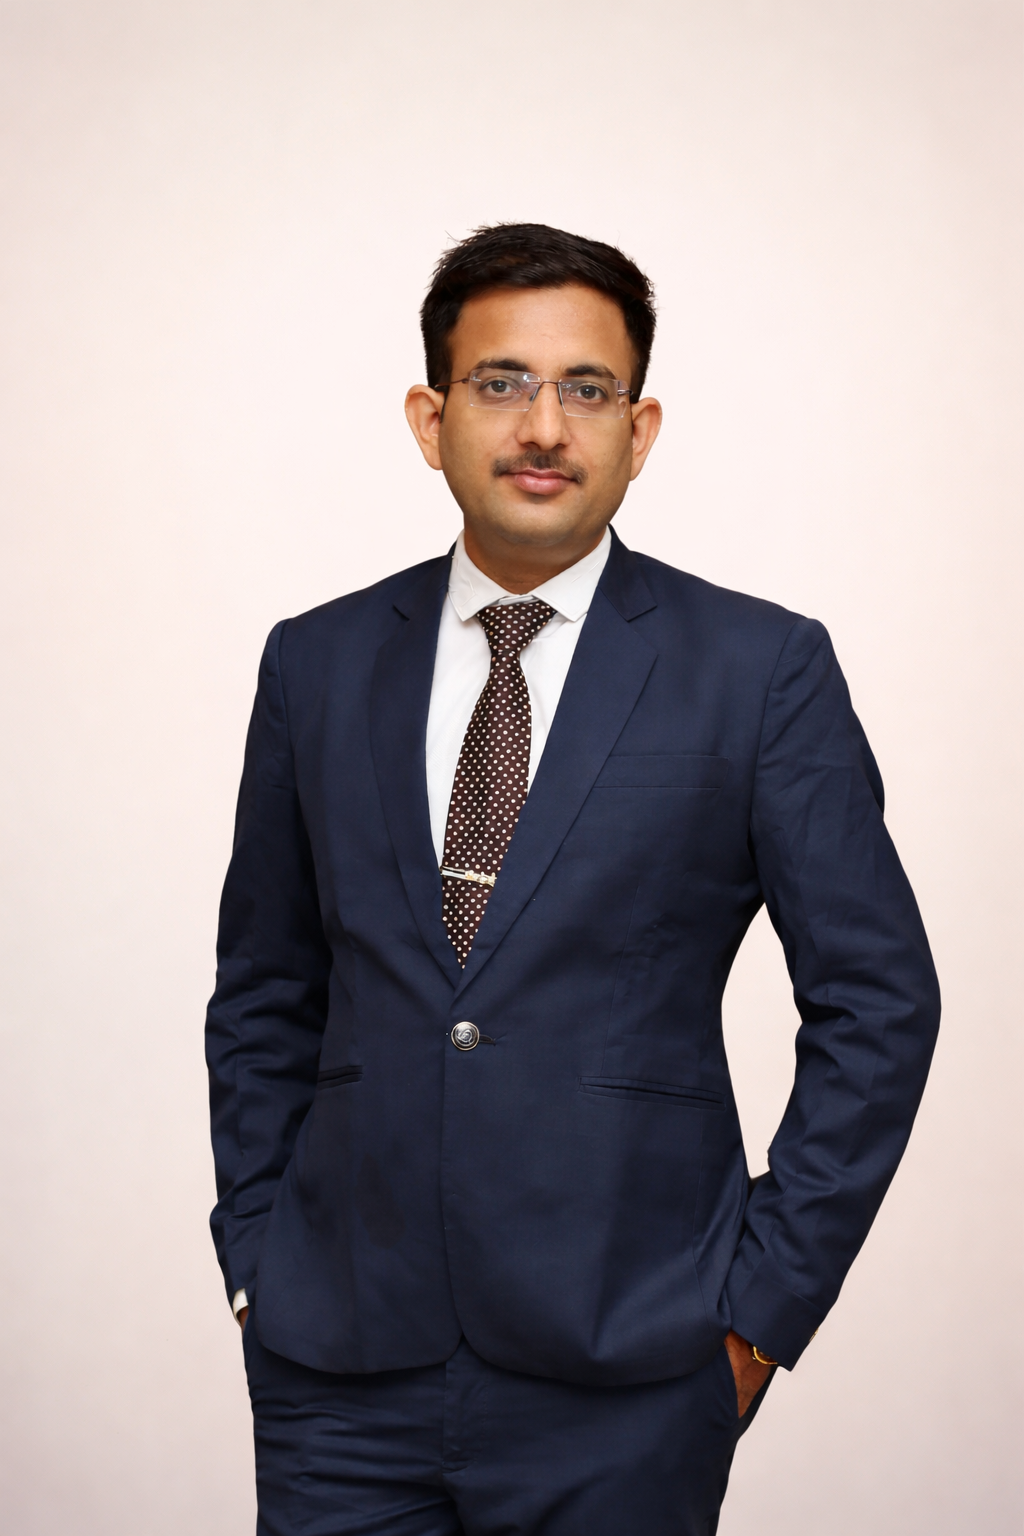
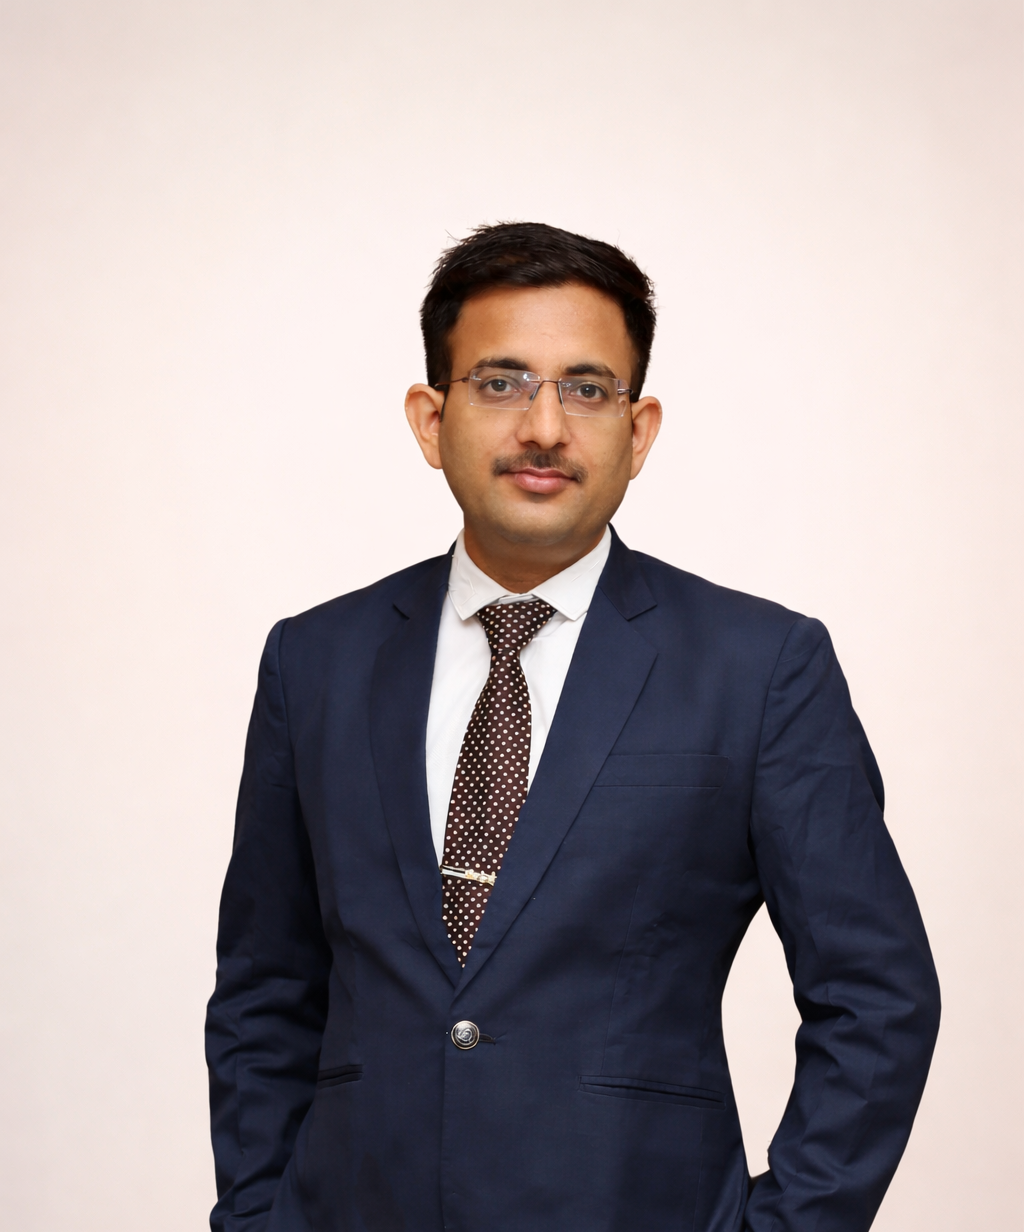
main-opf image added

Changed region(s): [[0.0, 0.1234, 1.0, 1.0]]

diff --git a/src/app/impact-stories/[id]/page.tsx b/src/app/impact-stories/[id]/page.tsx
@@ -49,7 +49,7 @@ export default function ImpactStoryDetailPage({ params }: PageProps) {
     "@type": "Article",
     headline: conference.heading,
     description: conference.description || conference.title,
-    image: conference.imageUrl || "https://opf.org.in/opflogo.png",
+    image: conference.imageUrl || "https://opf.org.in/opf-main.webp",
     author: {
       "@type": "Organization",
       name: "Operant Pharmacy Federation",
@@ -59,7 +59,7 @@ export default function ImpactStoryDetailPage({ params }: PageProps) {
       name: "Operant Pharmacy Federation",
       logo: {
         "@type": "ImageObject",
-        url: "https://opf.org.in/opflogo.png",
+        url: "https://opf.org.in/opf-main.webp",
       },
     },
     mainEntityOfPage: `https://opf.org.in/impact-stories/${conference.id}`,

diff --git a/src/app/layout.tsx b/src/app/layout.tsx
@@ -53,7 +53,7 @@ export const metadata: Metadata = {
     locale: "en_IN",
     images: [
       {
-        url: absoluteUrl("/opflogo.png"),
+        url: absoluteUrl("/opf-main.webp"),
         width: 1200,
         height: 630,
         alt: `${SITE_NAME} preview image`,
@@ -65,7 +65,7 @@ export const metadata: Metadata = {
     title: `${SITE_NAME} | Pharmacy Research and Innovation`,
     description:
       "Advance your pharmacy career with OPF through memberships, conferences, global collaborations, and research opportunities.",
-    images: [absoluteUrl("/opflogo.png")],
+    images: [absoluteUrl("/opf-main.webp")],
   },
   robots: {
     index: true,

diff --git a/src/app/lib/seo.ts b/src/app/lib/seo.ts
@@ -2,7 +2,7 @@ import type { Metadata } from "next";
 
 export const SITE_URL = "https://opf.org.in";
 export const SITE_NAME = "Operant Pharmacy Federation";
-export const DEFAULT_OG_IMAGE = `${SITE_URL}/opflogo.png`;
+export const DEFAULT_OG_IMAGE = `${SITE_URL}/opf-main.webp`;
 
 const DEFAULT_DESCRIPTION =
   "Operant Pharmacy Federation advances pharmacy education, research, conferences, and professional development for global healthcare impact.";

diff --git a/src/app/components/Hero.tsx b/src/app/components/Hero.tsx
@@ -6,8 +6,7 @@ import Image from "next/image";
 import Link from "next/link";
 import { useRef } from "react";
 
-const heroImage =
-  "https://images.unsplash.com/photo-1579154204601-01588f351e67?auto=format&fit=crop&q=80&w=2200";
+const heroImage = "/opf-main.webp";
 const supportImageOne =
   "https://images.unsplash.com/photo-1582719478250-c89cae4dc85b?auto=format&fit=crop&q=80&w=1400";
 const supportImageTwo =

diff --git a/src/app/impact-stories/[id]/head.tsx b/src/app/impact-stories/[id]/head.tsx
@@ -7,7 +7,7 @@ export default function Head({ params }: HeadProps) {
   const description =
     "Explore a detailed OPF impact story on pharmacy research, conference outcomes, and healthcare collaboration.";
   const url = `https://opf.org.in/impact-stories/${params.id}`;
-  const image = "https://opf.org.in/opflogo.png";
+  const image = "https://opf.org.in/opf-main.webp";
 
   return (
     <>

diff --git a/src/app/collaborations/[id]/head.tsx b/src/app/collaborations/[id]/head.tsx
@@ -7,7 +7,7 @@ export default function Head({ params }: HeadProps) {
   const description =
     "Review OPF collaboration details and partnership outcomes for pharmaceutical education and research growth.";
   const url = `https://opf.org.in/collaborations/${params.id}`;
-  const image = "https://opf.org.in/opflogo.png";
+  const image = "https://opf.org.in/opf-main.webp";
 
   return (
     <>

diff --git a/src/app/topics/pharmacovigilance/head.tsx b/src/app/topics/pharmacovigilance/head.tsx
@@ -3,7 +3,7 @@ export default function Head() {
   const description =
     "Learn pharmacovigilance fundamentals, adverse event reporting, drug safety monitoring, and OPF career guidance resources.";
   const url = "https://opf.org.in/topics/pharmacovigilance";
-  const image = "https://opf.org.in/opflogo.png";
+  const image = "https://opf.org.in/opf-main.webp";
 
   return (
     <>

diff --git a/src/app/memberships/head.tsx b/src/app/memberships/head.tsx
@@ -3,7 +3,7 @@ export default function Head() {
   const description =
     "Choose OPF membership plans for students and professionals to access research resources, conferences, and expert pharmacy networks.";
   const url = "https://opf.org.in/memberships";
-  const image = "https://opf.org.in/opflogo.png";
+  const image = "https://opf.org.in/opf-main.webp";
 
   return (
     <>

diff --git a/src/app/collaborations/head.tsx b/src/app/collaborations/head.tsx
@@ -3,7 +3,7 @@ export default function Head() {
   const description =
     "Explore OPF academic and industry collaborations that accelerate pharmaceutical research, education, and healthcare innovation.";
   const url = "https://opf.org.in/collaborations";
-  const image = "https://opf.org.in/opflogo.png";
+  const image = "https://opf.org.in/opf-main.webp";
 
   return (
     <>

diff --git a/src/app/topics/clinical-research/head.tsx b/src/app/topics/clinical-research/head.tsx
@@ -3,7 +3,7 @@ export default function Head() {
   const description =
     "Understand clinical research design, ethics, GCP compliance, trial operations, and OPF opportunities for researchers.";
   const url = "https://opf.org.in/topics/clinical-research";
-  const image = "https://opf.org.in/opflogo.png";
+  const image = "https://opf.org.in/opf-main.webp";
 
   return (
     <>

diff --git a/src/app/topics/pharmacy-education/head.tsx b/src/app/topics/pharmacy-education/head.tsx
@@ -3,7 +3,7 @@ export default function Head() {
   const description =
     "Access pharmacy education pathways, research writing support, conference exposure, and career development with OPF.";
   const url = "https://opf.org.in/topics/pharmacy-education";
-  const image = "https://opf.org.in/opflogo.png";
+  const image = "https://opf.org.in/opf-main.webp";
 
   return (
     <>

diff --git a/src/app/about/head.tsx b/src/app/about/head.tsx
@@ -3,7 +3,7 @@ export default function Head() {
   const description =
     "Learn about Operant Pharmacy Federation, our pharmacy mission, healthcare research programs, and professional development initiatives.";
   const url = "https://opf.org.in/about";
-  const image = "https://opf.org.in/opflogo.png";
+  const image = "https://opf.org.in/opf-main.webp";
 
   return (
     <>
